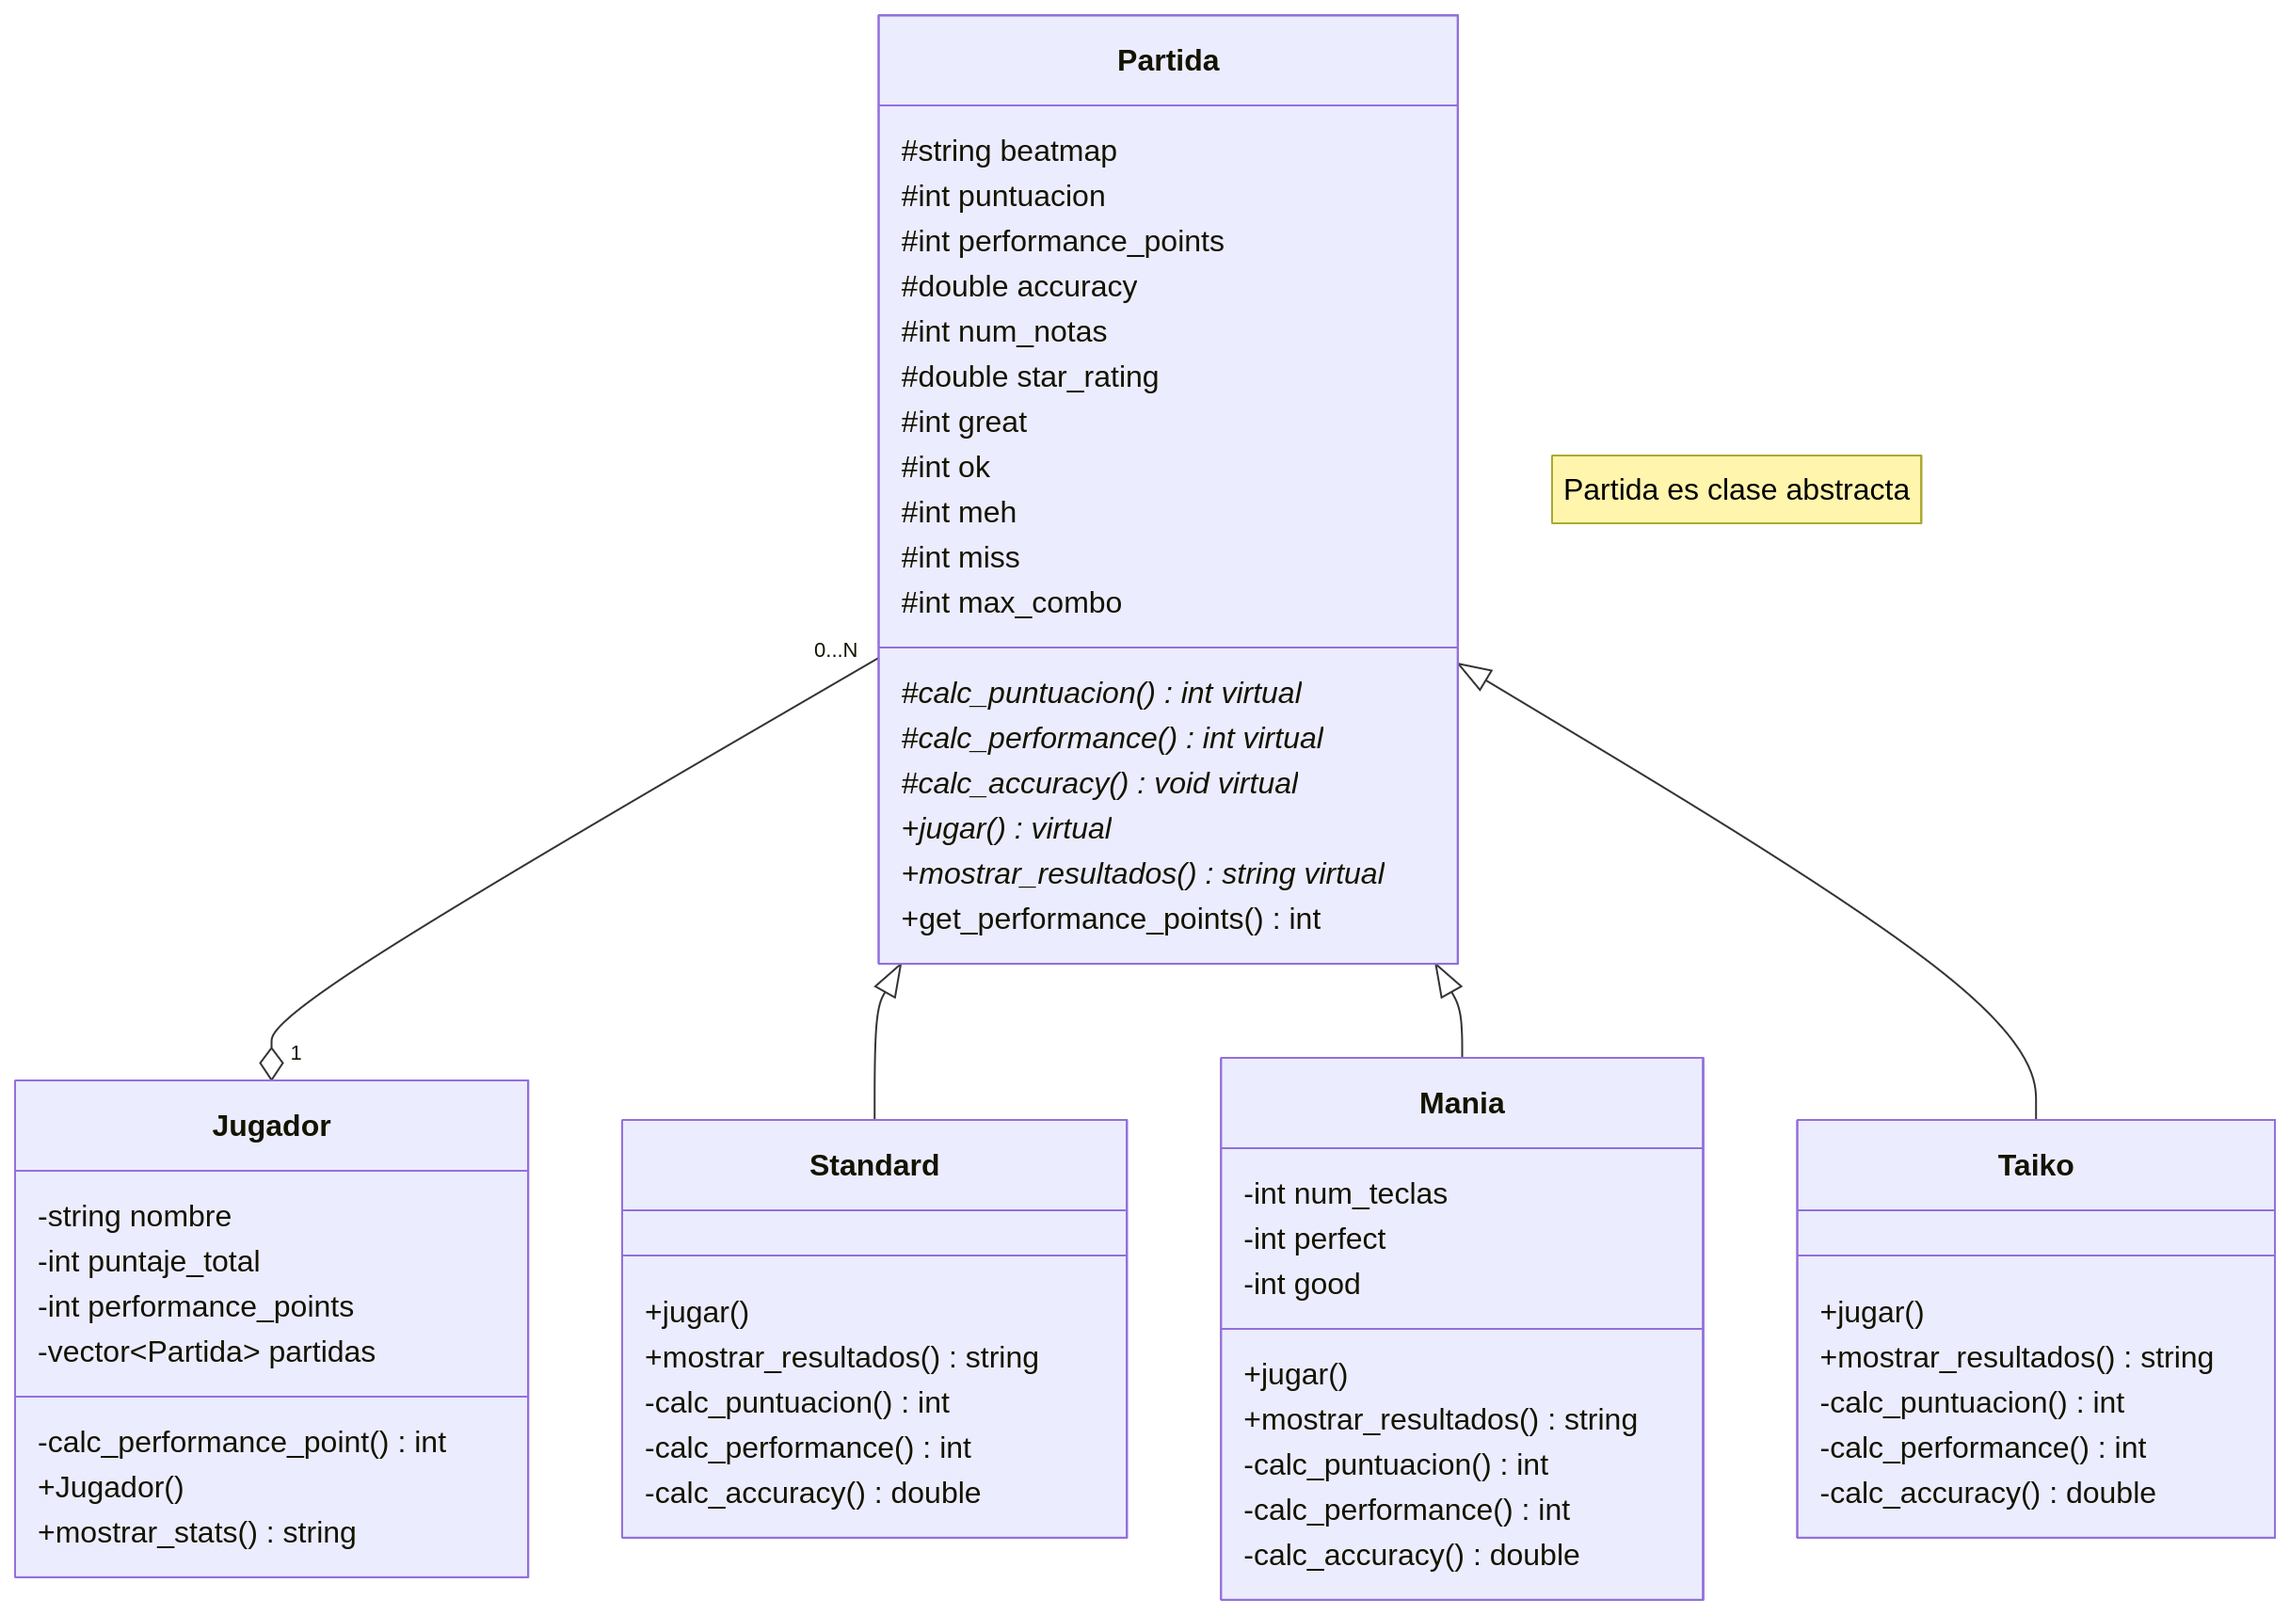
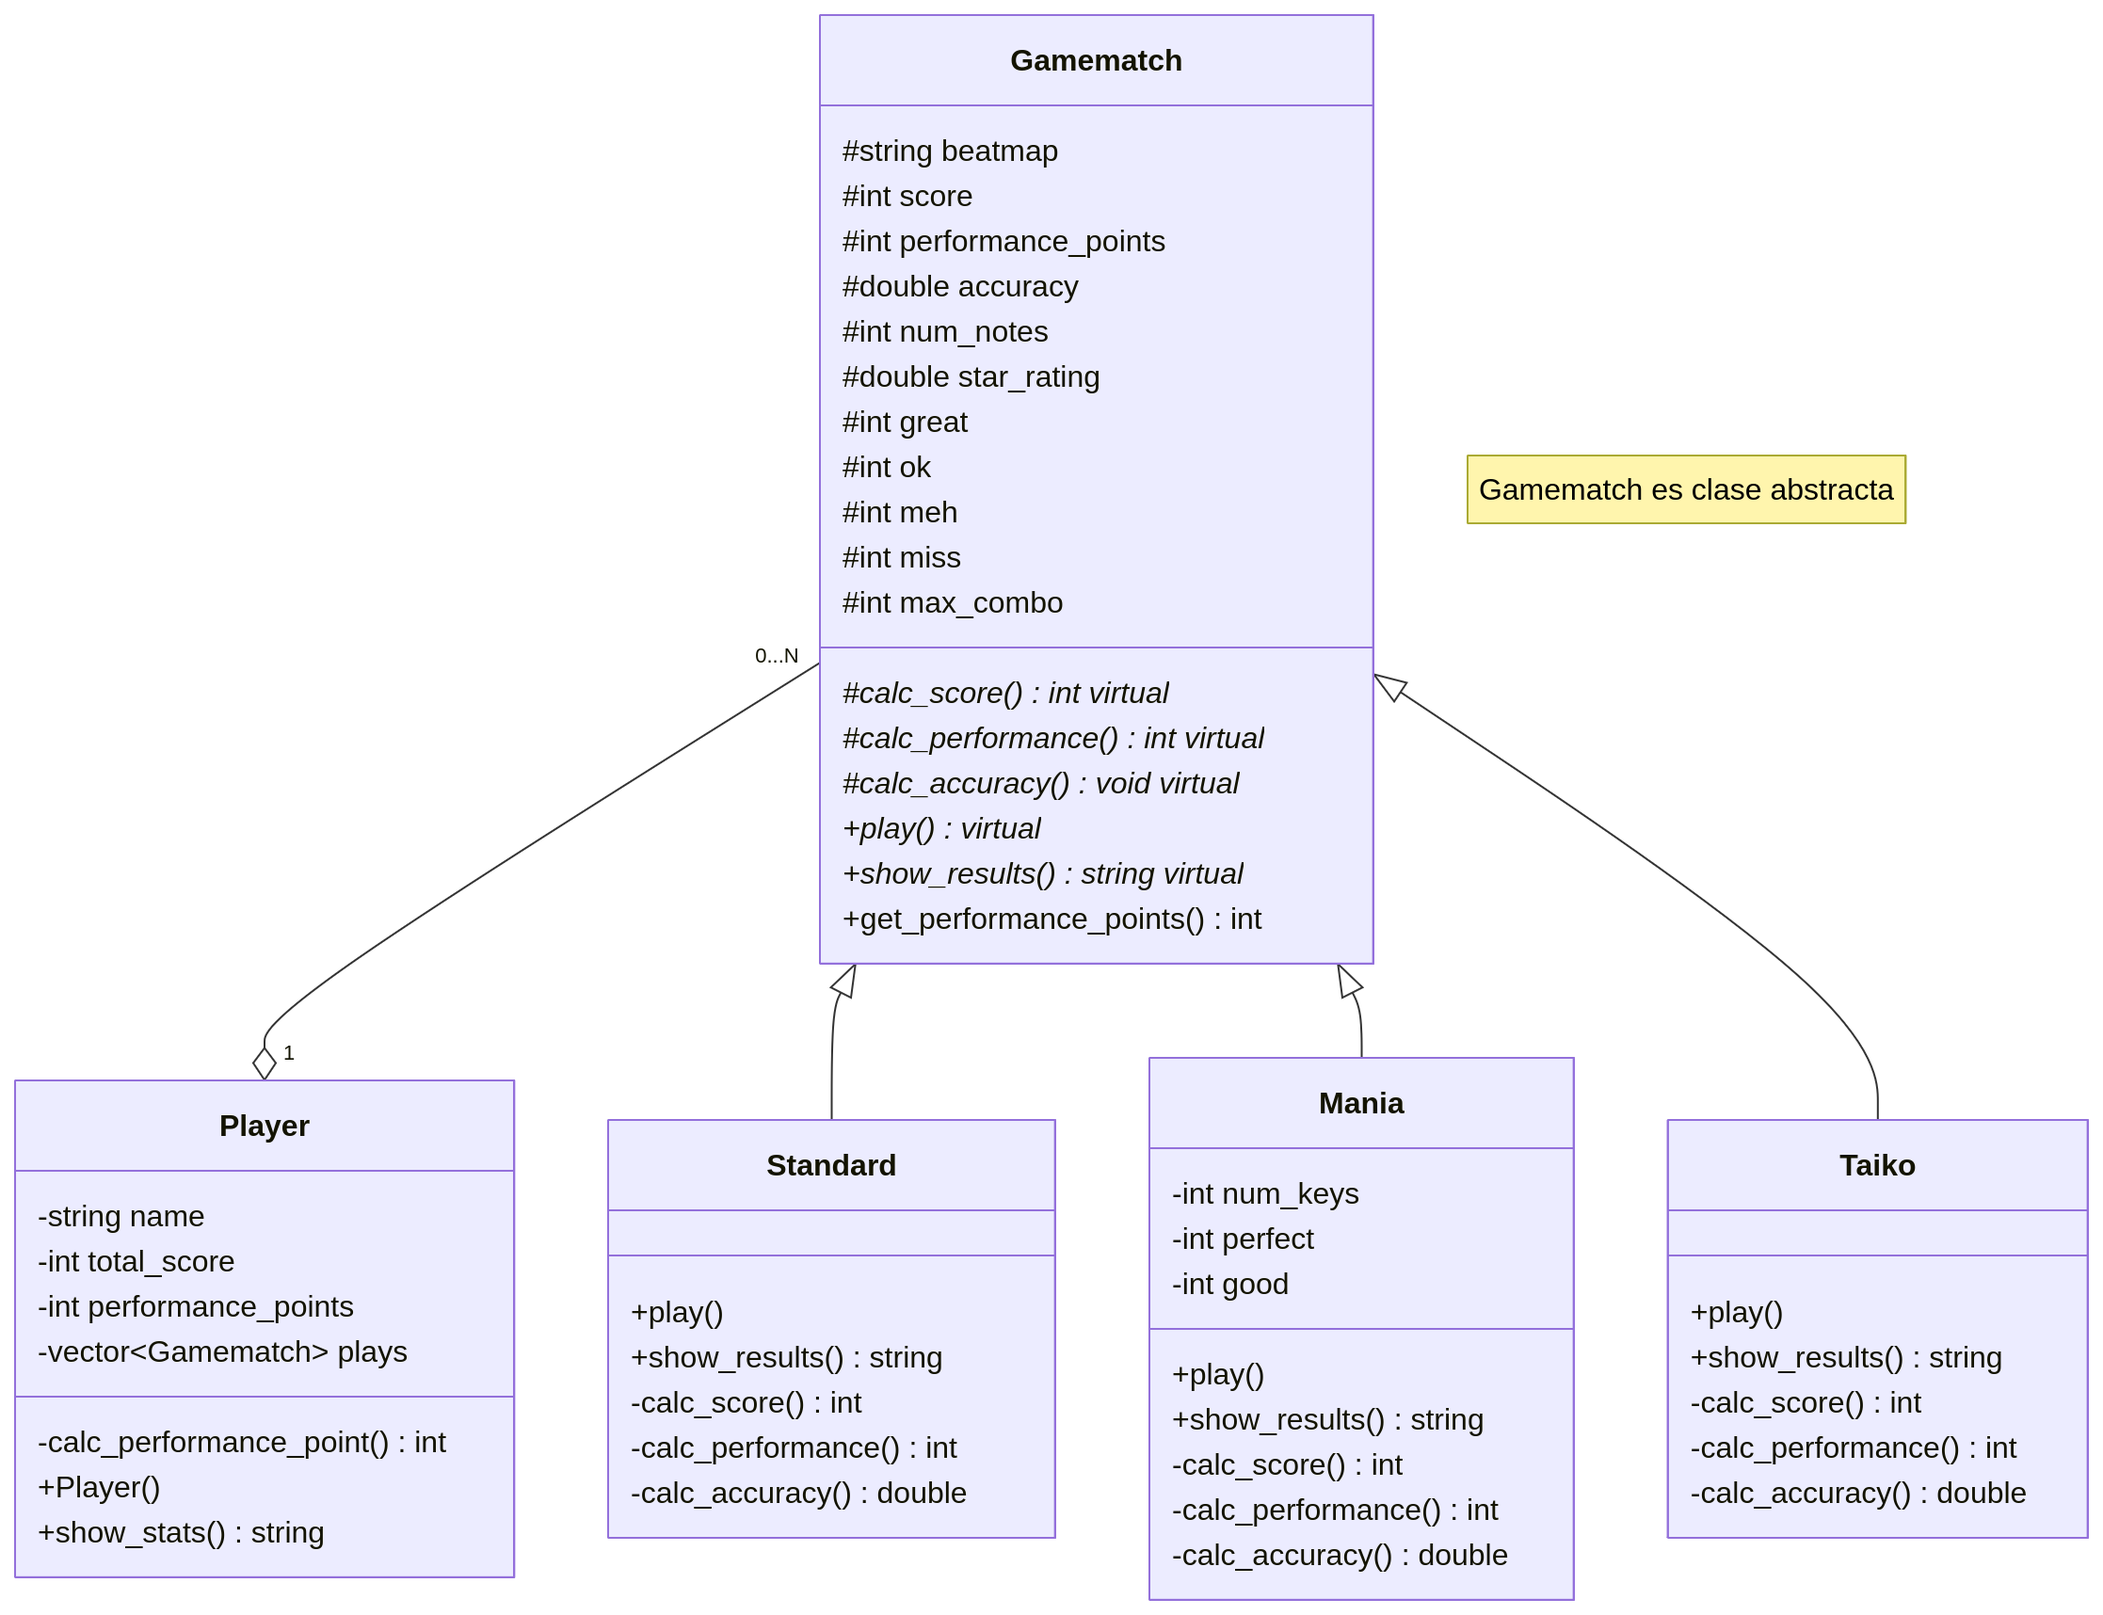
uml: make it all english

diff --git a/uml.md b/uml.md
@@ -1,11 +1,11 @@
 classDiagram
-    note "Partida es clase abstracta"
-class Partida {
+    note "Gamematch es clase abstracta"
+class Gamematch {
     #string beatmap
-    #int puntuacion
+    #int score
     #int performance_points
     #double accuracy
-    #int num_notas
+    #int num_notes
     #double star_rating
 
     #int great
@@ -14,55 +14,55 @@ class Partida {
     #int miss
     #int max_combo
 
-    #calc_puntuacion()* int virtual
+    #calc_score()* int virtual
     #calc_performance()* int virtual
     #calc_accuracy()* void virtual
-    +jugar()* virtual
-    +mostrar_resultados()* string virtual
+    +play()* virtual
+    +show_results()* string virtual
     +get_performance_points() int
 }
 
 class Standard {
-    +jugar()
-    +mostrar_resultados() string
-    -calc_puntuacion() int
+    +play()
+    +show_results() string
+    -calc_score() int
     -calc_performance() int
     -calc_accuracy() double
 }
 
 class Mania {
-    -int num_teclas
+    -int num_keys
     -int perfect
     -int good
 
-    +jugar()
-    +mostrar_resultados() string
-    -calc_puntuacion() int
+    +play()
+    +show_results() string
+    -calc_score() int
     -calc_performance() int
     -calc_accuracy() double
 
 }
 
 class Taiko {
-    +jugar()
-    +mostrar_resultados() string
-    -calc_puntuacion() int
+    +play()
+    +show_results() string
+    -calc_score() int
     -calc_performance() int
     -calc_accuracy() double
 }
-Partida "0...N" --o "1" Jugador
+Gamematch "0...N" --o "1" Player
 
-class Jugador {
-    -string nombre
-    -int puntaje_total
+class Player {
+    -string name
+    -int total_score
     -int performance_points
-    -vector~Partida~ partidas
+    -vector~Gamematch~ plays
     -calc_performance_point() int
 
-    +Jugador()
-    +mostrar_stats() string
+    +Player()
+    +show_stats() string
 }
 
-Partida <|-- Standard
-Partida <|-- Mania
-Partida <|-- Taiko
+Gamematch <|-- Standard
+Gamematch <|-- Mania
+Gamematch <|-- Taiko
